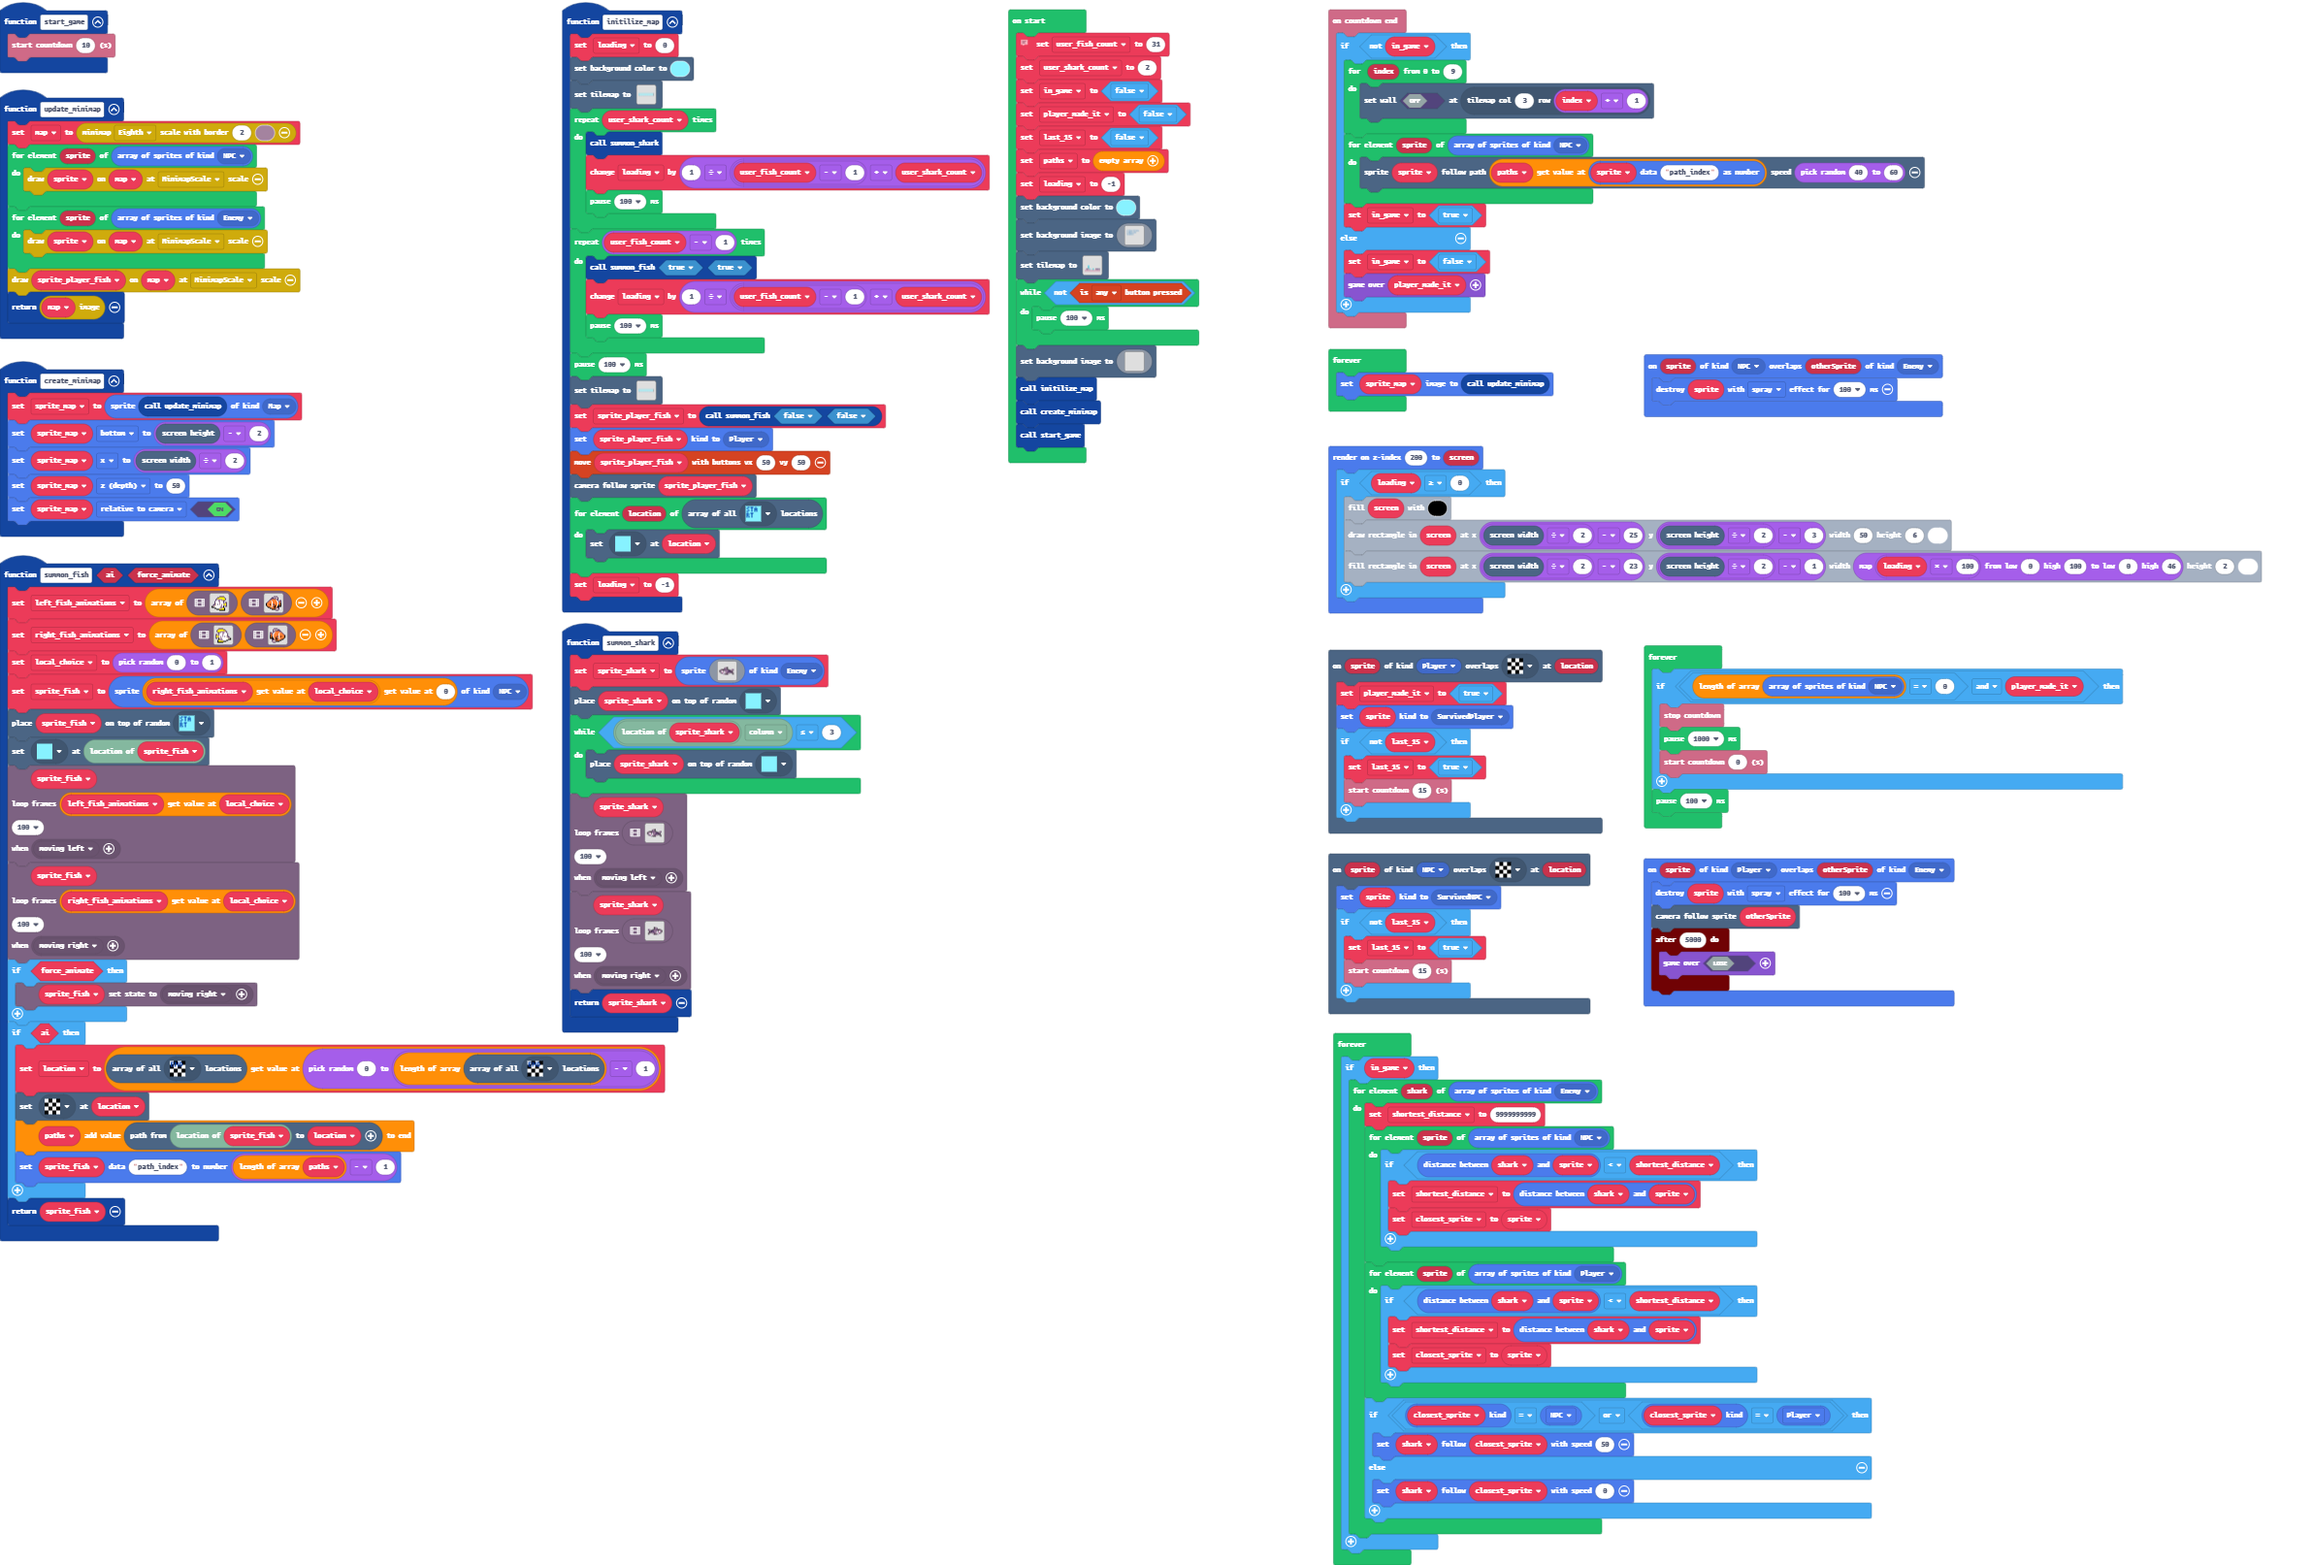
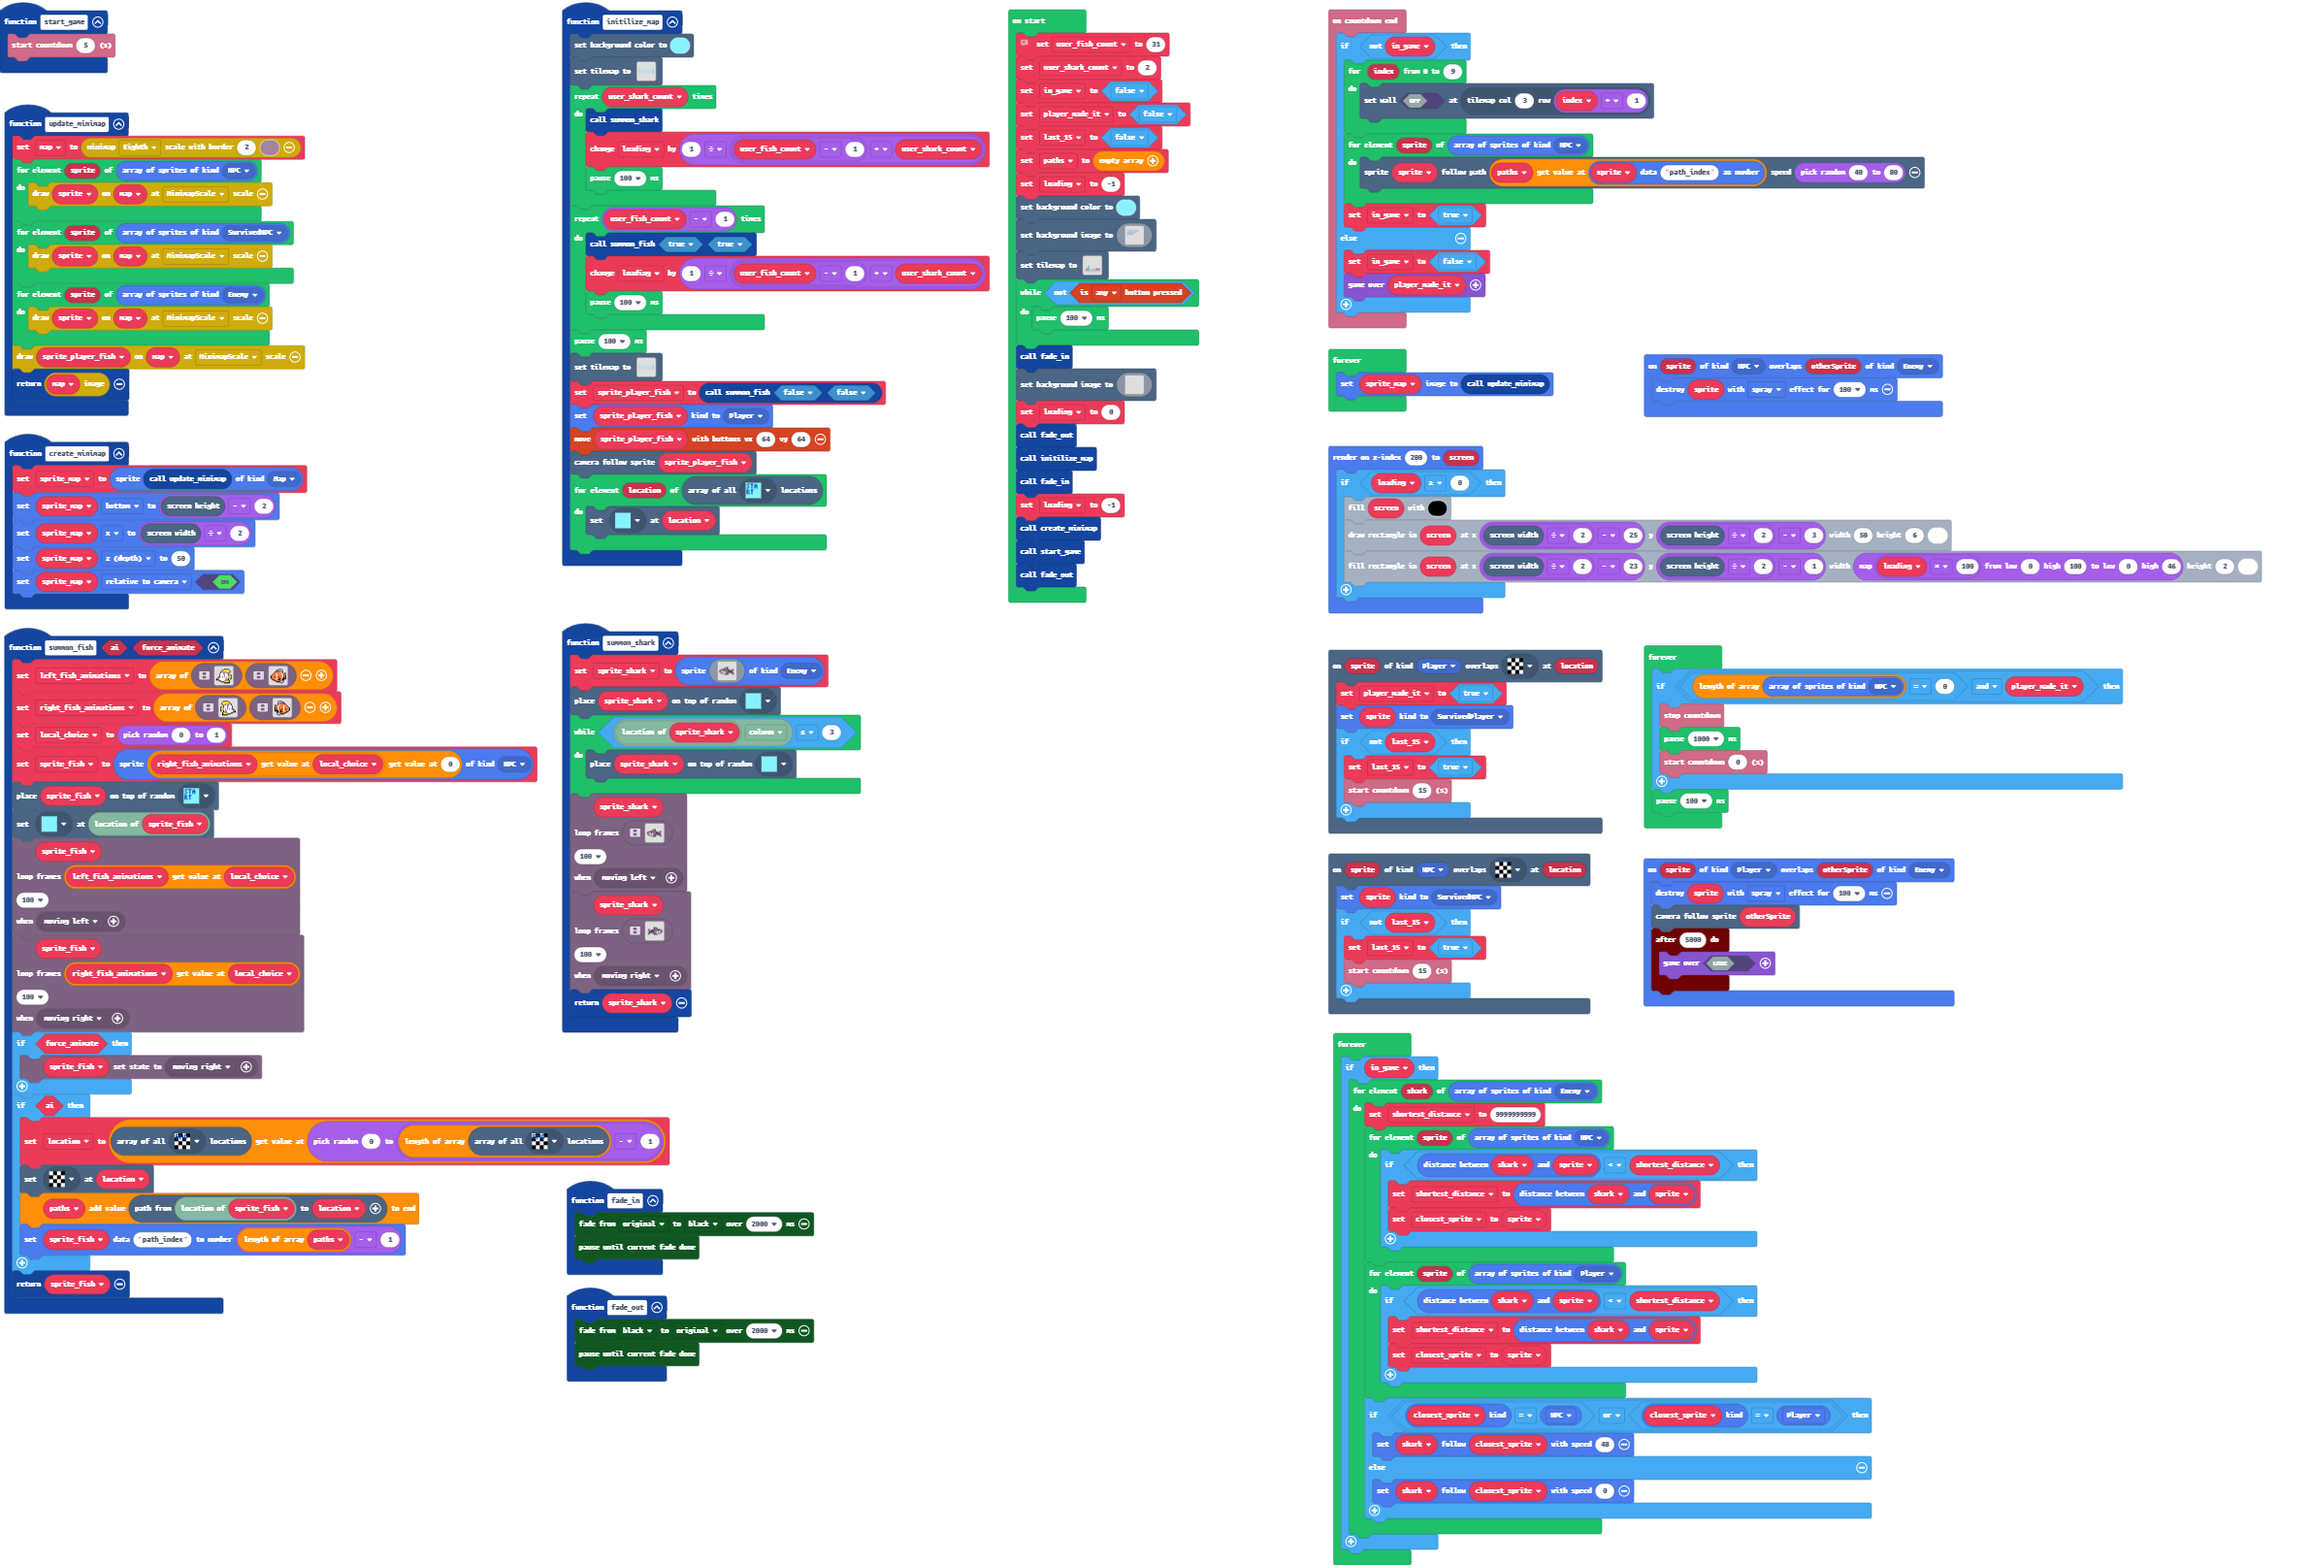
Fades! (And faster fish)

Changed region(s): [[0.0, 0.062, 0.3726, 0.8989], [0.2174, 0.0, 0.4347, 0.403], [0.4347, 0.217, 0.4969, 0.403]]

diff --git a/main.ts b/main.ts
@@ -116,13 +116,17 @@ scene.onOverlapTile(SpriteKind.NPC, myTiles.tile12, function (sprite, location) 
         info.startCountdown(15)
     }
 })
+function fade_out () {
+    color.startFade(color.Black, color.originalPalette, 2000)
+    color.pauseUntilFadeDone()
+}
 info.onCountdownEnd(function () {
     if (!(in_game)) {
         for (let index = 0; index <= 9; index++) {
             tiles.setWallAt(tiles.getTileLocation(3, index + 1), false)
         }
         for (let sprite of sprites.allOfKind(SpriteKind.NPC)) {
-            scene.followPath(sprite, paths[sprites.readDataNumber(sprite, "path_index")], randint(40, 60))
+            scene.followPath(sprite, paths[sprites.readDataNumber(sprite, "path_index")], randint(40, 80))
         }
         in_game = true
     } else {
@@ -130,6 +134,10 @@ info.onCountdownEnd(function () {
         game.over(player_made_it)
     }
 })
+function fade_in () {
+    color.startFade(color.originalPalette, color.Black, 2000)
+    color.pauseUntilFadeDone()
+}
 scene.onOverlapTile(SpriteKind.Player, myTiles.tile12, function (sprite, location) {
     player_made_it = true
     sprite.setKind(SpriteKind.SurvivedPlayer)
@@ -142,10 +150,9 @@ sprites.onOverlap(SpriteKind.NPC, SpriteKind.Enemy, function (sprite, otherSprit
     sprite.destroy(effects.spray, 100)
 })
 function start_game () {
-    info.startCountdown(10)
+    info.startCountdown(5)
 }
 function initilize_map () {
-    loading = 0
     scene.setBackgroundColor(9)
[1 lines of base64/hex data omitted]
         2222222222222222222222222222222222222222222222222222222222222222
@@ -188,16 +195,18 @@ function initilize_map () {
         `, [myTiles.transparency16,sprites.builtin.oceanSand6,sprites.dungeon.hazardWater,sprites.builtin.coral0,sprites.builtin.coral4,sprites.builtin.coral5,sprites.builtin.coral2,sprites.builtin.coral1,myTiles.tile1,myTiles.tile2,myTiles.tile3,myTiles.tile4,myTiles.tile5,myTiles.tile6,myTiles.tile7,myTiles.tile8,myTiles.tile9,myTiles.tile10,myTiles.tile11,myTiles.tile14,myTiles.tile13,myTiles.tile15,myTiles.tile12], TileScale.Sixteen))
     sprite_player_fish = summon_fish(false, false)
     sprite_player_fish.setKind(SpriteKind.Player)
-    controller.moveSprite(sprite_player_fish, 50, 50)
+    controller.moveSprite(sprite_player_fish, 64, 64)
     scene.cameraFollowSprite(sprite_player_fish)
     for (let location of tiles.getTilesByType(myTiles.tile13)) {
         tiles.setTileAt(location, myTiles.tile15)
     }
-    loading = -1
 }
 function update_minimap () {
     map = minimap.minimap(MinimapScale.Eighth, 2, 11)
     for (let sprite of sprites.allOfKind(SpriteKind.NPC)) {
+        minimap.includeSprite(map, sprite, MinimapSpriteScale.MinimapScale)
+    }
+    for (let sprite of sprites.allOfKind(SpriteKind.SurvivedNPC)) {
         minimap.includeSprite(map, sprite, MinimapSpriteScale.MinimapScale)
     }
     for (let sprite of sprites.allOfKind(SpriteKind.Enemy)) {
@@ -453,6 +462,7 @@ tiles.setTilemap(tiles.createTilemap(hex`0a0008000000000000000000000000000000000
 while (!(controller.anyButton.isPressed())) {
     pause(100)
 }
+fade_in()
 scene.setBackgroundImage(img`
     ................................................................................................................................................................
     ................................................................................................................................................................
@@ -575,9 +585,14 @@ scene.setBackgroundImage(img`
     ................................................................................................................................................................
     ................................................................................................................................................................
     `)
+loading = 0
+fade_out()
 initilize_map()
+fade_in()
+loading = -1
 create_minimap()
 start_game()
+fade_out()
 forever(function () {
     sprite_map.setImage(update_minimap())
 })
@@ -606,7 +621,7 @@ forever(function () {
                 }
             }
             if (closest_sprite.kind() == SpriteKind.NPC || closest_sprite.kind() == SpriteKind.Player) {
-                shark.follow(closest_sprite, 50)
+                shark.follow(closest_sprite, 48)
             } else {
                 shark.follow(closest_sprite, 0)
             }
